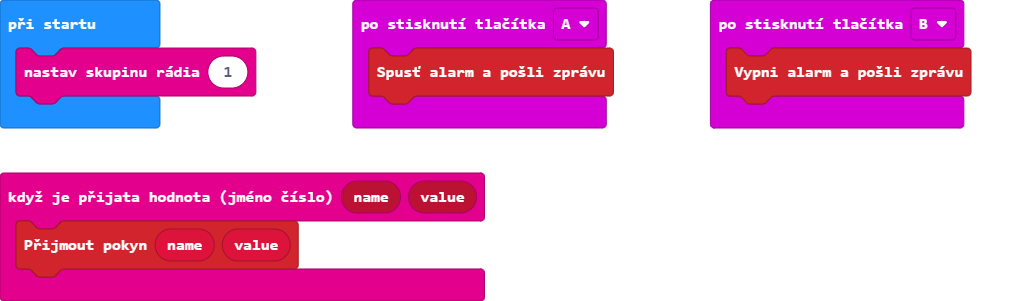
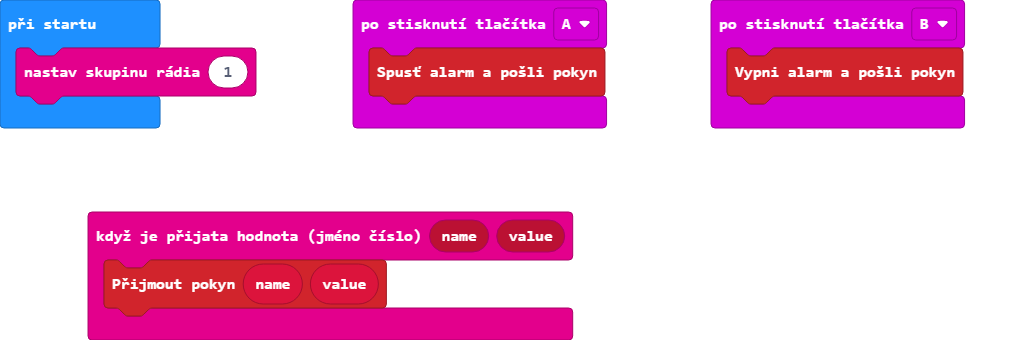
extension edited

diff --git a/alarm.ts b/alarm.ts
@@ -21,9 +21,9 @@ namespace Alarm {
 
         
     /**
-    * Spustí alarm a pošle všem zařízením v okolí zprávu
+    * Spustí alarm a pošle všem zařízením v okolí pokyn ke spuštění alarmu
     */
-    //% block="Spusť alarm a pošli zprávu"
+    //% block="Spusť alarm a pošli pokyn"
 
     export function SpustitAlarmAOdesli(): void {
         alarm = true
@@ -38,9 +38,9 @@ namespace Alarm {
     }
 
     /**
-    * Vypne alarm a pošle všem zařízením v okolí zprávu
+    * Vypne alarm a pošle všem zařízením v okolí pokyn k vypnutí alarmu
     */
-    //% block="Vypni alarm a pošli zprávu"
+    //% block="Vypni alarm a pošli pokyn"
 
     export function VypnoutAlarmAOdesli(): void {
         alarm = false
@@ -55,7 +55,7 @@ namespace Alarm {
     }
 
     /**
-    * Přijmout pokyn
+    * Přijme pokyn od jiného zařízení
     */
     //% block="Přijmout pokyn %name %value"
 
